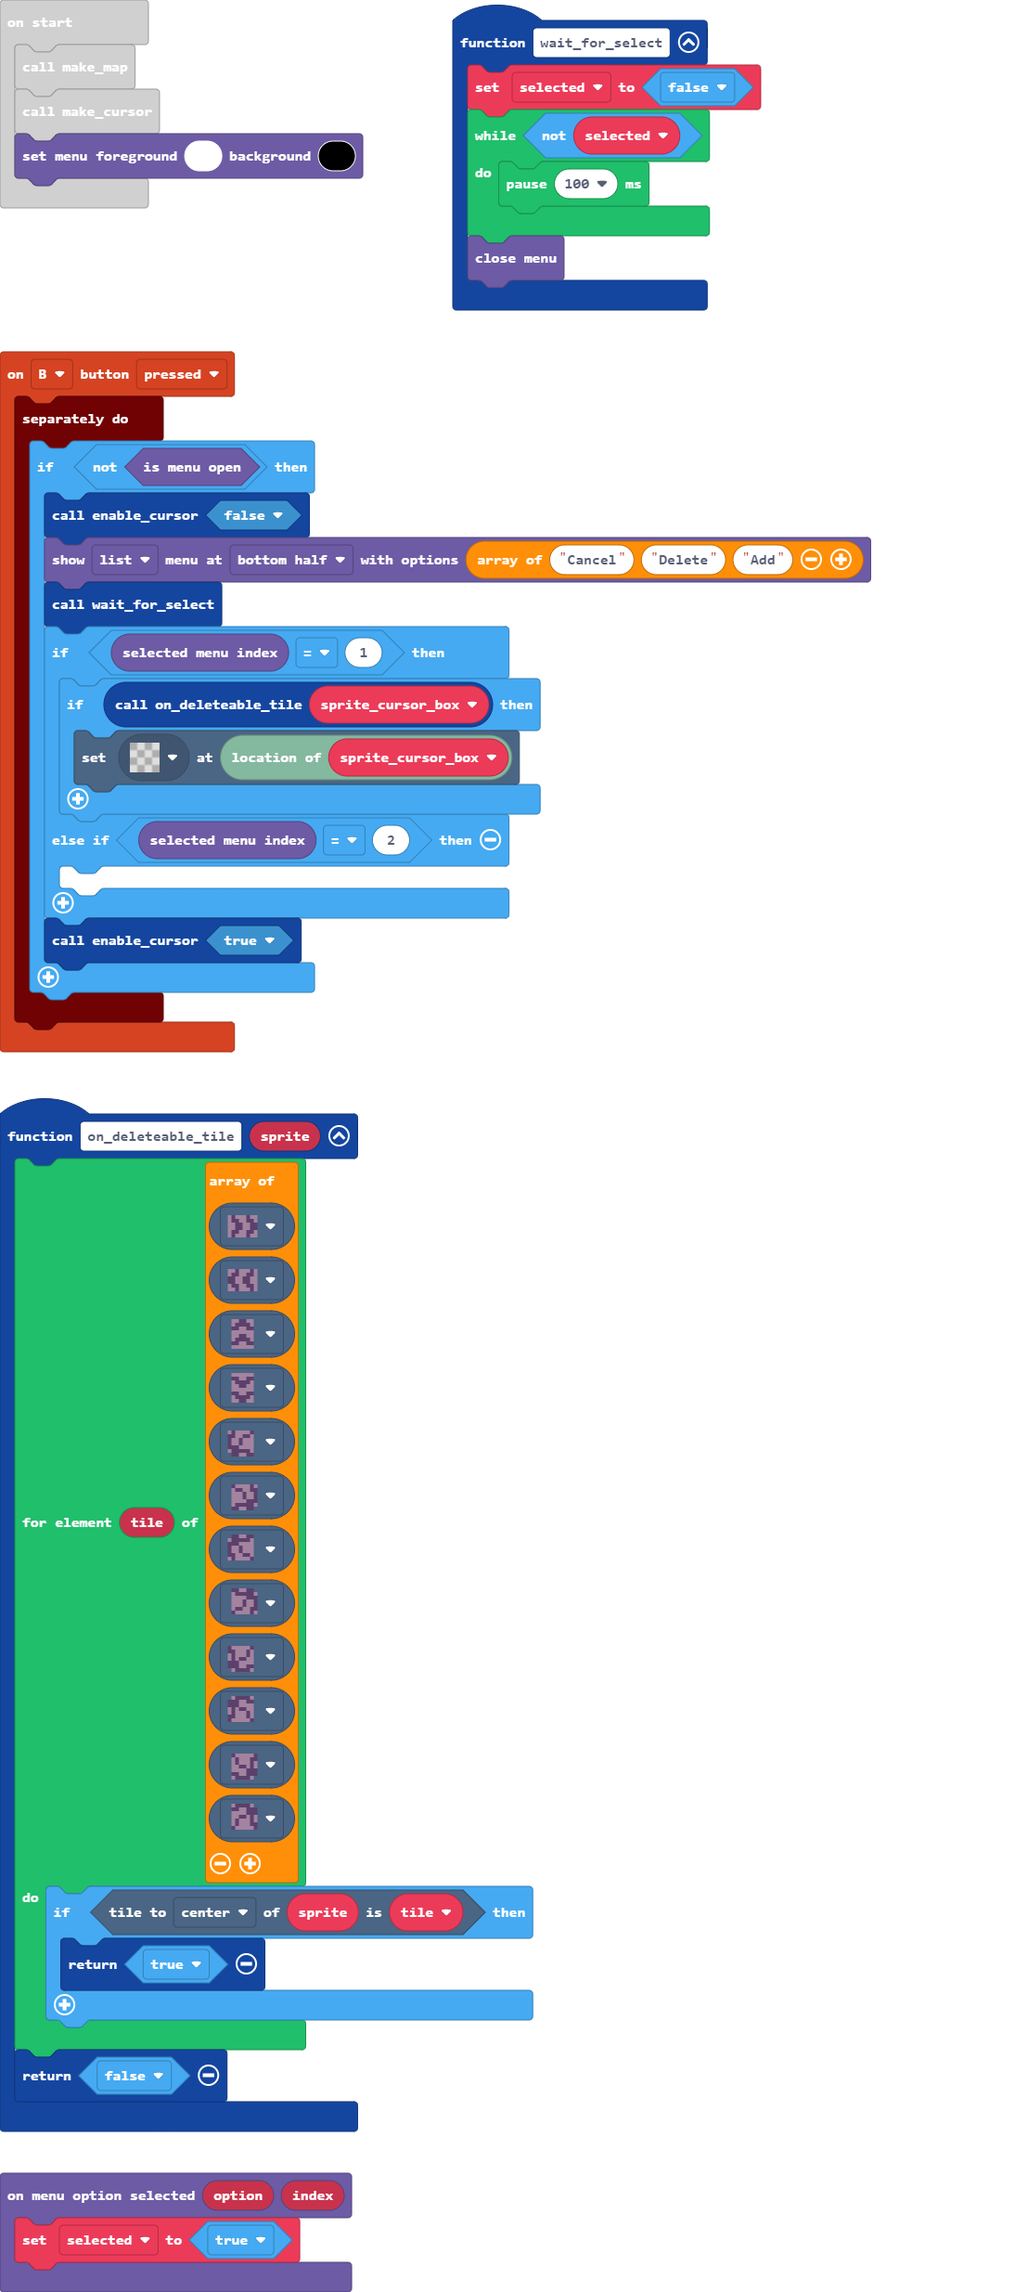
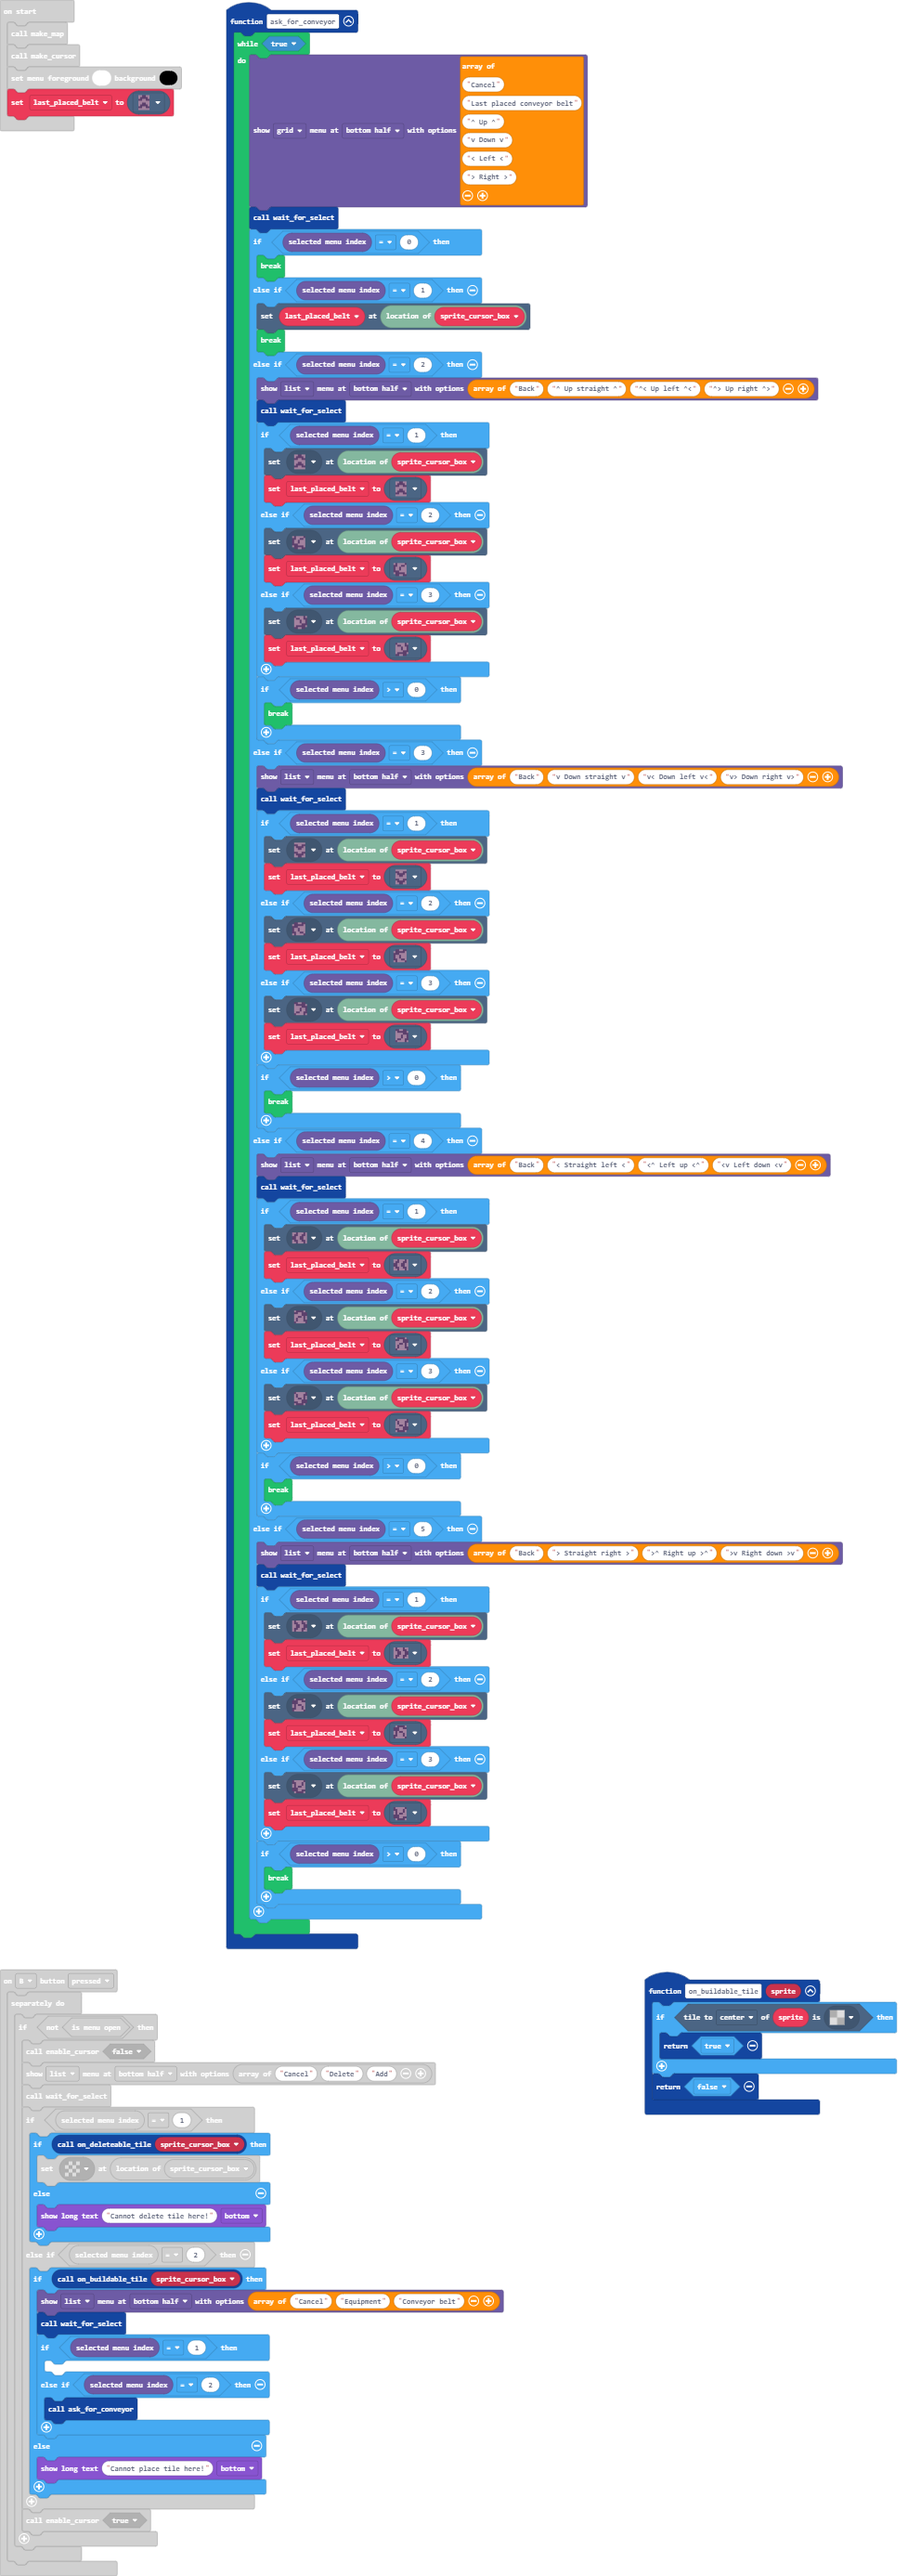
Place conveyor belts!

diff --git a/main.ts b/main.ts
@@ -1,3 +1,9 @@
+function on_buildable_tile (sprite: Sprite) {
+    if (sprite.tileKindAt(TileDirection.Center, assets.tile`transparency8`)) {
+        return true
+    }
+    return false
+}
 controller.B.onEvent(ControllerButtonEvent.Pressed, function () {
     timer.background(function () {
         if (!(blockMenu.isMenuOpen())) {
@@ -7,9 +13,21 @@ controller.B.onEvent(ControllerButtonEvent.Pressed, function () {
             if (blockMenu.selectedMenuIndex() == 1) {
                 if (on_deleteable_tile(sprite_cursor_box)) {
                     tiles.setTileAt(tiles.locationOfSprite(sprite_cursor_box), assets.tile`transparency16`)
+                } else {
+                    game.showLongText("Cannot delete tile here!", DialogLayout.Bottom)
                 }
             } else if (blockMenu.selectedMenuIndex() == 2) {
-            	
+                if (on_buildable_tile(sprite_cursor_box)) {
+                    blockMenu.showMenu(["Cancel", "Equipment", "Conveyor belt"], MenuStyle.List, MenuLocation.BottomHalf)
+                    wait_for_select()
+                    if (blockMenu.selectedMenuIndex() == 1) {
+                    	
+                    } else if (blockMenu.selectedMenuIndex() == 2) {
+                        ask_for_conveyor()
+                    }
+                } else {
+                    game.showLongText("Cannot place tile here!", DialogLayout.Bottom)
+                }
             }
             enable_cursor(true)
         }
@@ -46,6 +64,89 @@ function make_cursor () {
     sprite_cursor_pointer.setFlag(SpriteFlag.GhostThroughWalls, true)
     sprite_cursor_pointer.setStayInScreen(true)
 }
+function ask_for_conveyor () {
+    while (true) {
+        blockMenu.showMenu([
+        "Cancel",
+        "Last placed conveyor belt",
+        "^ Up ^",
+        "v Down v",
+        "< Left <",
+        "> Right >"
+        ], MenuStyle.Grid, MenuLocation.BottomHalf)
+        wait_for_select()
+        if (blockMenu.selectedMenuIndex() == 0) {
+            break;
+        } else if (blockMenu.selectedMenuIndex() == 1) {
+            tiles.setTileAt(tiles.locationOfSprite(sprite_cursor_box), last_placed_belt)
+            break;
+        } else if (blockMenu.selectedMenuIndex() == 2) {
+            blockMenu.showMenu(["Back", "^ Up straight ^", "^< Up left ^<", "^> Up right ^>"], MenuStyle.List, MenuLocation.BottomHalf)
+            wait_for_select()
+            if (blockMenu.selectedMenuIndex() == 1) {
+                tiles.setTileAt(tiles.locationOfSprite(sprite_cursor_box), assets.tile`conveyor_up`)
+                last_placed_belt = assets.tile`conveyor_up`
+            } else if (blockMenu.selectedMenuIndex() == 2) {
+                tiles.setTileAt(tiles.locationOfSprite(sprite_cursor_box), assets.tile`conveyor_up_left`)
+                last_placed_belt = assets.tile`conveyor_up_left`
+            } else if (blockMenu.selectedMenuIndex() == 3) {
+                tiles.setTileAt(tiles.locationOfSprite(sprite_cursor_box), assets.tile`conveyor_up_right`)
+                last_placed_belt = assets.tile`conveyor_up_right`
+            }
+            if (blockMenu.selectedMenuIndex() > 0) {
+                break;
+            }
+        } else if (blockMenu.selectedMenuIndex() == 3) {
+            blockMenu.showMenu(["Back", "v Down straight v", "v< Down left v<", "v> Down right v>"], MenuStyle.List, MenuLocation.BottomHalf)
+            wait_for_select()
+            if (blockMenu.selectedMenuIndex() == 1) {
+                tiles.setTileAt(tiles.locationOfSprite(sprite_cursor_box), assets.tile`conveyor_down`)
+                last_placed_belt = assets.tile`conveyor_down`
+            } else if (blockMenu.selectedMenuIndex() == 2) {
+                tiles.setTileAt(tiles.locationOfSprite(sprite_cursor_box), assets.tile`conveyor_down_left`)
+                last_placed_belt = assets.tile`conveyor_down_left`
+            } else if (blockMenu.selectedMenuIndex() == 3) {
+                tiles.setTileAt(tiles.locationOfSprite(sprite_cursor_box), assets.tile`conveyor_down_right`)
+                last_placed_belt = assets.tile`conveyor_down_right`
+            }
+            if (blockMenu.selectedMenuIndex() > 0) {
+                break;
+            }
+        } else if (blockMenu.selectedMenuIndex() == 4) {
+            blockMenu.showMenu(["Back", "< Straight left <", "<^ Left up <^", "<v Left down <v"], MenuStyle.List, MenuLocation.BottomHalf)
+            wait_for_select()
+            if (blockMenu.selectedMenuIndex() == 1) {
+                tiles.setTileAt(tiles.locationOfSprite(sprite_cursor_box), assets.tile`conveyor_left`)
+                last_placed_belt = assets.tile`conveyor_left`
+            } else if (blockMenu.selectedMenuIndex() == 2) {
+                tiles.setTileAt(tiles.locationOfSprite(sprite_cursor_box), assets.tile`conveyor_left_up`)
+                last_placed_belt = assets.tile`conveyor_left_up`
+            } else if (blockMenu.selectedMenuIndex() == 3) {
+                tiles.setTileAt(tiles.locationOfSprite(sprite_cursor_box), assets.tile`conveyor_left_down`)
+                last_placed_belt = assets.tile`conveyor_left_down`
+            }
+            if (blockMenu.selectedMenuIndex() > 0) {
+                break;
+            }
+        } else if (blockMenu.selectedMenuIndex() == 5) {
+            blockMenu.showMenu(["Back", "> Straight right >", ">^ Right up >^", ">v Right down >v"], MenuStyle.List, MenuLocation.BottomHalf)
+            wait_for_select()
+            if (blockMenu.selectedMenuIndex() == 1) {
+                tiles.setTileAt(tiles.locationOfSprite(sprite_cursor_box), assets.tile`conveyor_right`)
+                last_placed_belt = assets.tile`conveyor_right`
+            } else if (blockMenu.selectedMenuIndex() == 2) {
+                tiles.setTileAt(tiles.locationOfSprite(sprite_cursor_box), assets.tile`conveyor_right_up`)
+                last_placed_belt = assets.tile`conveyor_right_up`
+            } else if (blockMenu.selectedMenuIndex() == 3) {
+                tiles.setTileAt(tiles.locationOfSprite(sprite_cursor_box), assets.tile`conveyor_right_down`)
+                last_placed_belt = assets.tile`conveyor_right_down`
+            }
+            if (blockMenu.selectedMenuIndex() > 0) {
+                break;
+            }
+        }
+    }
+}
 function enable_cursor (en: boolean) {
     if (en) {
         controller.moveSprite(sprite_cursor_pointer, 64, 64)
@@ -71,9 +172,11 @@ let selected = false
 let sprite_cursor_pointer: Sprite = null
 let sprite_cursor: Sprite = null
 let sprite_cursor_box: Sprite = null
+let last_placed_belt: Image = null
 make_map()
 make_cursor()
 blockMenu.setColors(1, 15)
+last_placed_belt = assets.tile`conveyor_up`
 game.onUpdate(function () {
     sprite_cursor.top = sprite_cursor_pointer.top
     sprite_cursor.left = sprite_cursor_pointer.left
